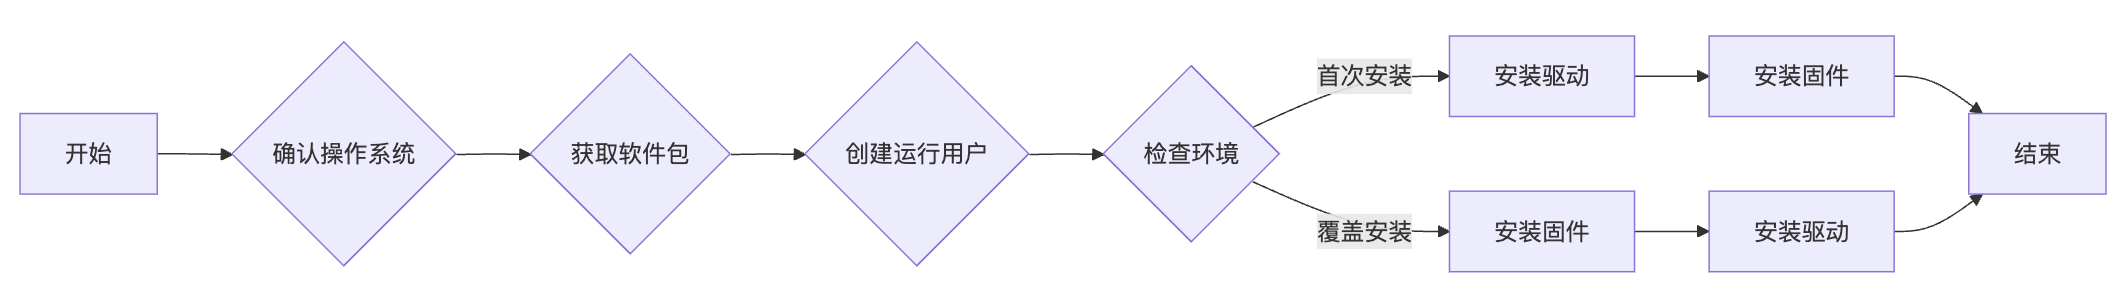
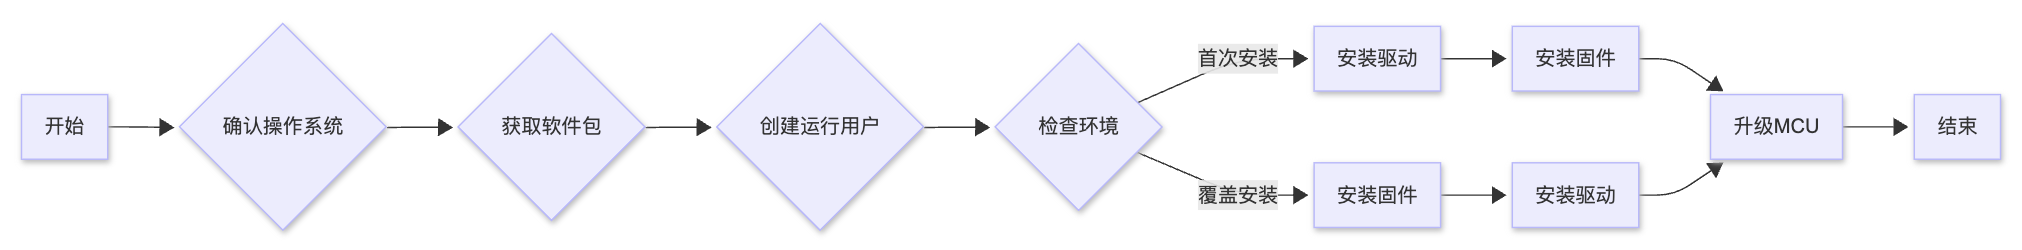
Update 2025-07-17-Ascend-Atlas-800I-A2-Installation-Guide.md

diff --git a/_posts/2025-07-17-Ascend-Atlas-800I-A2-Installation-Guide.md b/_posts/2025-07-17-Ascend-Atlas-800I-A2-Installation-Guide.md
@@ -1,14 +1,34 @@
 ---
 layout: single
-title:  "昇腾 Atlas 800I A2 安装指南"
+title:  "Atlas 800I A2 推理服务器开箱安装全流程：驱动/固件安装与MCU升级"
 date:   2025-07-17 12:00:00 +0800
 categories: 昇腾 NPU
-tags: [昇腾, NPU, 910B4, Atlas800IA2, 驱动, 固件, MCU]
+tags: [昇腾, NPU, 910B4, Atlas800IA2, 驱动, 固件, MCU, openEuler]
 ---
 
 <!--more-->
 
-我们的服务器是昇腾 Atlas 800I A2，CPU是 Kunpeng 920（5250），NPU 是昇腾 910B4（8X32G）。
+我们的服务器是 Atlas 800I A2，CPU是 鲲鹏 920（5250），NPU 是昇腾 910B4（8X32G）。
+
+## Atlas 800I A2 介绍
+
+**Atlas 800I A2 推理服务器**是基于**鲲鹏920**+**昇腾910** AI处理器的AI推理设备。
+
+![](/images/2025/Atlas800IA2/Atlas-800I-A2.png)
+
+![](/images/2025/Atlas800IA2/Atlas-800I-A2-Physical-Structure.png)
+
+| 1 | 铜排模块 | 2 | NPU模组 |
+|---|---|---|---|
+| 3 | 硬盘背板 | 4 | 加强横梁 |
+| 5 | NPU载板 | 6 | 参数面板接口卡 |
+| 7 | 机箱 | 8 | CPU主板导风罩 |
+| 9 | 硬盘 | 10 | 风扇模块 |
+| 11 | CPU散热器 | 12 | DIMM |
+| 13 | 灵活IO卡 (选配) | 14 | CPU主板 |
+| 15 | 电源框 | 16 | 电源模块 |
+| 17 | Riser模组2 | 18 | Riser模组1 |
+
 
 ## 安装流程
 
@@ -24,8 +44,9 @@ graph LR
     F --> H[安装固件]
     E -- 覆盖安装 --> G[安装固件]
     G --> I[安装驱动]
-    H --> J[结束]
-    I --> J[结束]
+    H --> J[升级MCU]
+    I --> J[升级MCU]
+    J --> K[结束]
 ```
 
 - **首次安装场景**：硬件设备刚出厂时未安装驱动，或者硬件设备前期安装过驱动固件但是当前已卸载，上述场景属于首次安装场景，需按照`“驱动->固件”`的顺序安装驱动固件。
